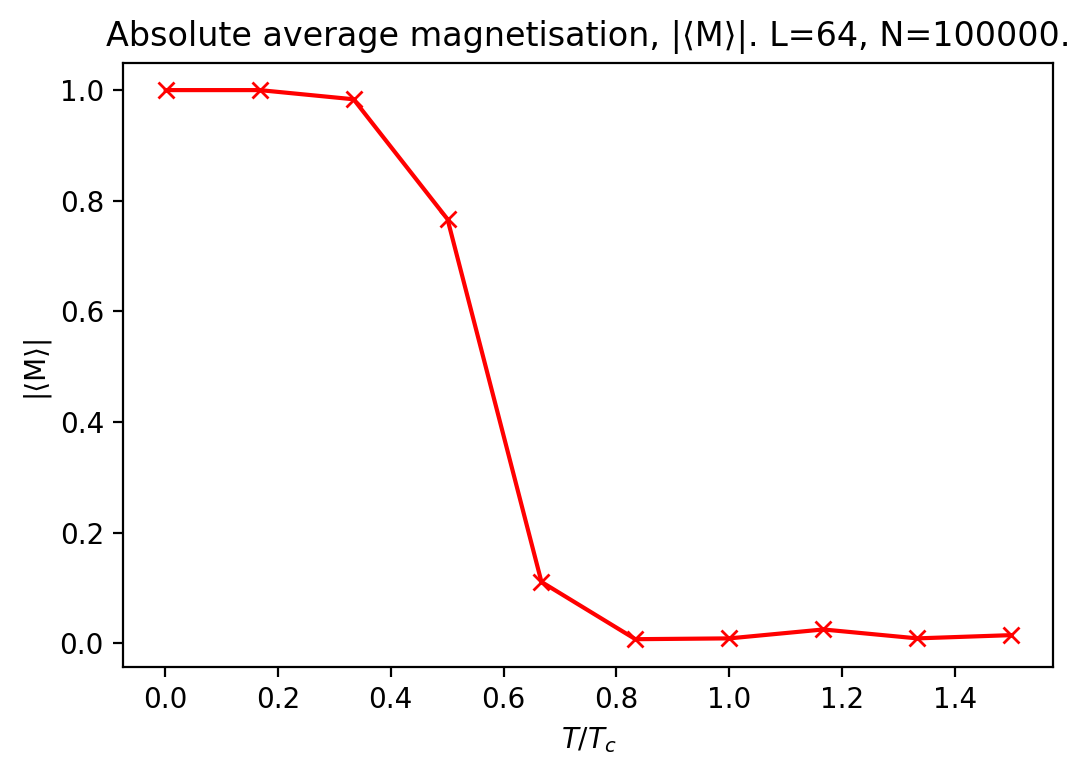
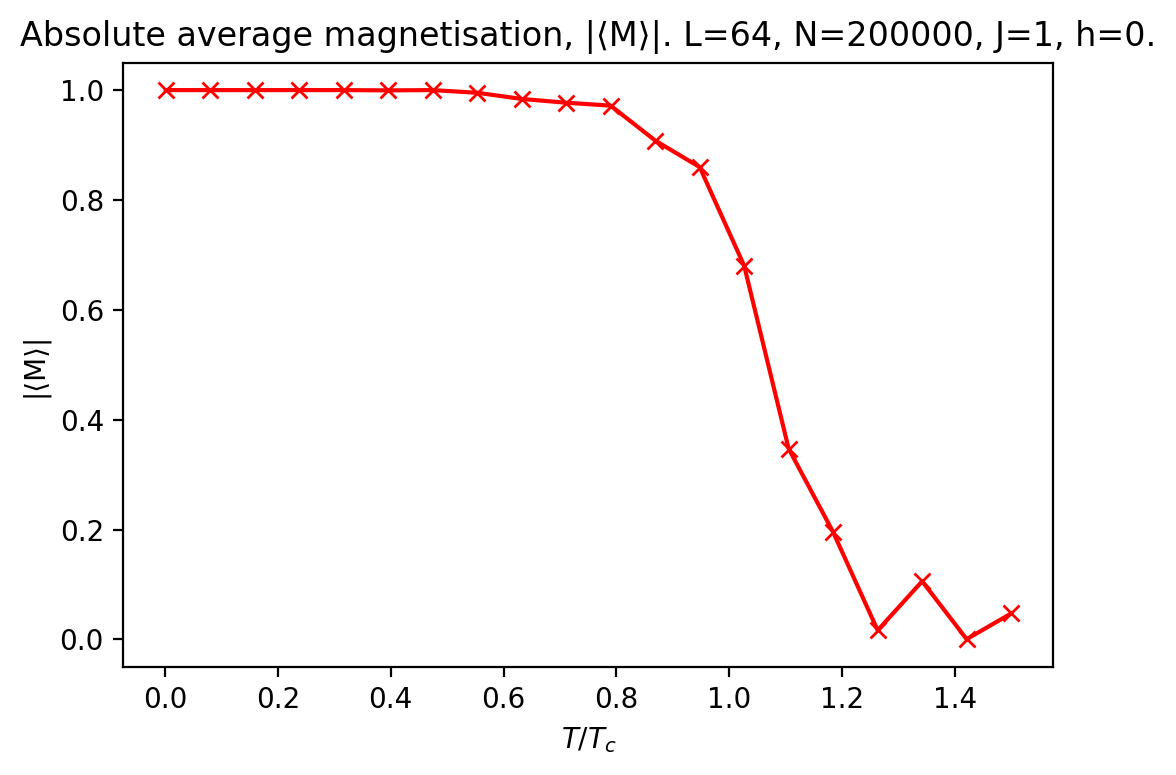
Improve magnetisation plot

diff --git a/generate_Ising_magnetisation.py b/generate_Ising_magnetisation.py
@@ -1,21 +1,20 @@
 import numpy as np
 from scipy.constants import Boltzmann as kB
 import matplotlib.pyplot as plt
-from scipy.optimize import newton
 from Metropolis_functions import*
 
 # INITIALISATION.
-N = 100000 # total number of runs in each Metropolis2D simulation
-n = 10 # total number of Metropolis2D simulations
+N = 200000 # total number of runs in each Metropolis2D simulation
+n = 20 # total number of Metropolis2D simulations
 min_T_factor = 0.001
 max_T_factor = 1.5
 T_factor = np.linspace(min_T_factor,max_T_factor,n) # for taking fractions of the critical temperature
-J = 1.5 # J > 0 is a coupling constant
+J = 1 # J > 0 is a coupling constant
 Tc = 2.27 * J/kB # critical temperature for 2D square lattice Ising model
 T = T_factor * Tc
 L = 64 # number of sites along a direction
 h = 0 # external magnetic field
-spins = init_pos_lattice(L) # Begin from a homogeneous spin lattice.
+spins = init_pos_lattice(L) # Begin from a uniformly random spin lattice.
 
 # Begin n sets of Metropolis2D simulations each with N runs.
 M = np.zeros(n)
@@ -27,7 +26,7 @@ for i in range(n):
 
 # Save plot.
 plt.plot(T/Tc,M,'-rx')
-plt.title(f"Absolute average magnetisation, |⟨M⟩|. L={L}, N={N}, h={h}.")
+plt.title(f"Absolute average magnetisation, |⟨M⟩|. L={L}, N={N}, J={J}, h={h}.")
 plt.xlabel("$T/T_c$")
 plt.ylabel("|⟨M⟩|")
 plt.savefig(f"simulation_images/Absolute_magnetisation.png", dpi=200, bbox_inches='tight')

diff --git a/generate_Ising_gif.py b/generate_Ising_gif.py
@@ -1,16 +1,26 @@
+import matplotlib.pyplot as plt
+import numpy as np
 from scipy.constants import Boltzmann as kB
 from Metropolis_functions import*
 
 # INITIALISATION.
-N = 100000 # total number of runs in each Metropolis2D simulation
-T_factor = 1.5 # for taking fractions of the critical temperature
+N = 200000 # total number of runs in each Metropolis2D simulation
+T_factor = 1.1 # for taking fractions of the critical temperature
 J = 2 # J > 0 is a coupling constant
 Tc = 2.27 * J/kB # critical temperature for 2D square lattice Ising model
 T = T_factor * Tc
-L = 128 # number of sites along a direction
-h = -20 # external magnetic field
-spins = init_rand_lattice(L) # Begin from a random spin lattice.
+L = 40 # number of sites along a direction
+h = 0 # external magnetic field
+spins = init_pos_lattice(L) # Begin from a uniformly random spin lattice.
 
 # Begin 1 set of Metropolis2D simulation with N runs.
-final_spins = Metropolis2D(N,spins,J,T,h,creategif=True,plot_interval=5000)
+final_spins = Metropolis2D(N,spins,J,T,h,creategif=False,plot_interval=5000)
 print("Check the gif in the simulations_images folder.")
+
+plt.imshow(final_spins,cmap='magma')
+plt.colorbar(ticks=[-1, 0, 1])
+plt.clim(-1,1)
+plt.title(f"Final run. $J$={J}. $T/T_c$={np.round(T/(2.27 * J/kB),4)}. $h$={h}.")
+plt.xlabel("$x$")
+plt.ylabel("$y$")
+plt.show()
